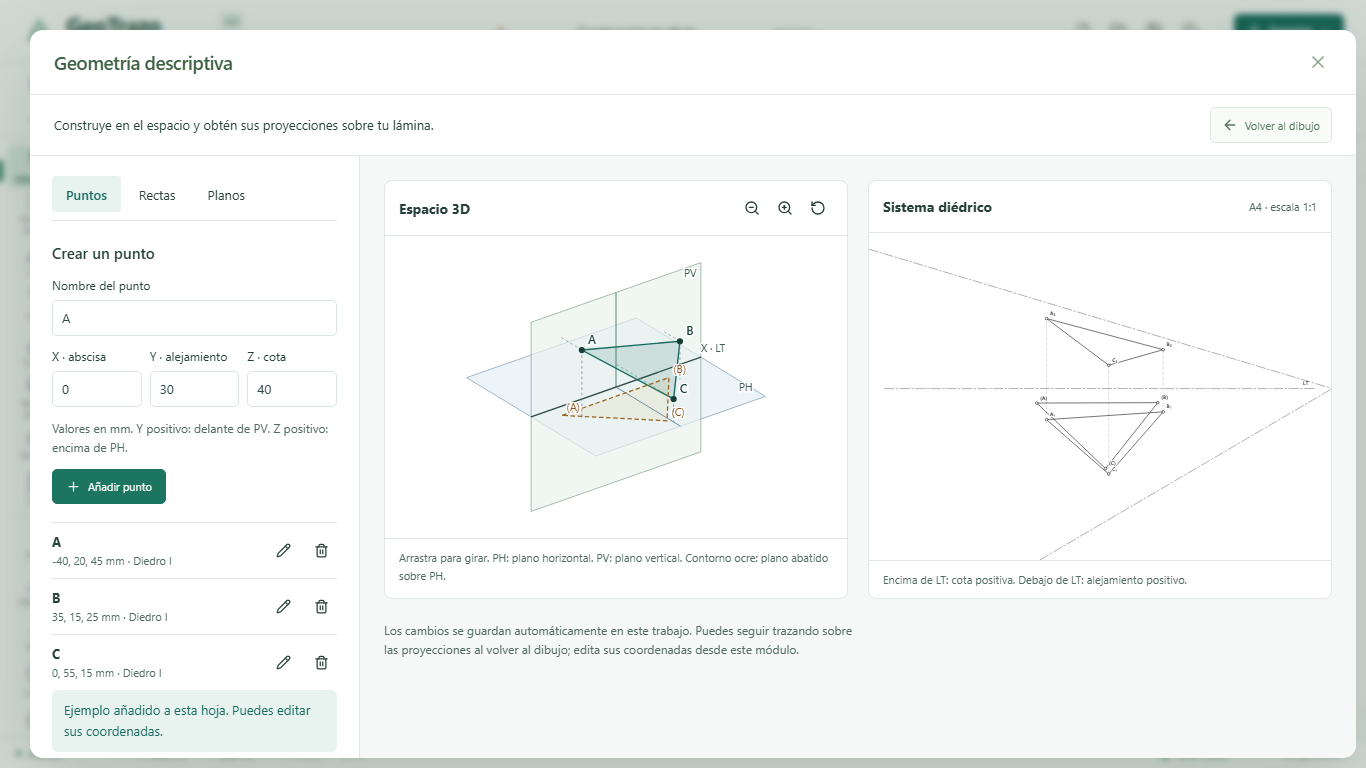
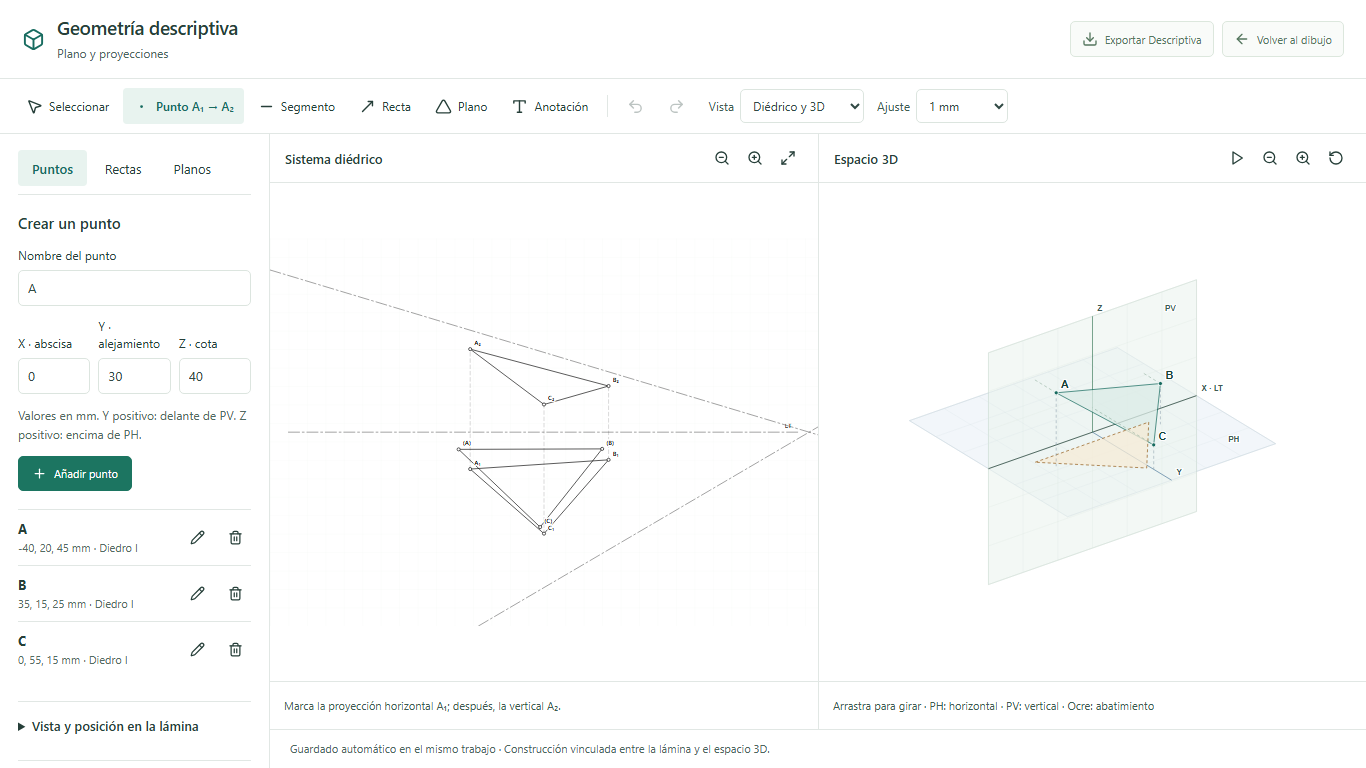
Publicar manual de la mesa Descriptiva y exportaciones 0.8.4

diff --git a/docs/manual.html b/docs/manual.html
@@ -42,7 +42,7 @@
       <article class="document-content">
         <h1>Tu mesa de dibujo,<br />paso a paso.</h1>
         <p>
-          Guía de GeoTrazo 0.8, con las herramientas del paquete 0.8.3. Autor:
+          Guía de GeoTrazo 0.8, con las herramientas del paquete 0.8.4. Autor:
           <strong>Fran David Caton Alania</strong>.
         </p>
         <p>
@@ -256,6 +256,39 @@
           Si deseas borrar un punto 3D, el módulo explica que también se
           eliminarán las rectas y planos que lo usan. Si otros trazos manuales
           dependen de sus proyecciones, debes resolver primero esas referencias.
+        </p>
+        <h2 id="mesa-descriptiva">Construir en la mesa de Descriptiva</h2>
+        <p>
+          <strong>Descriptiva</strong> abre una mesa propia de fondo blanco, con
+          herramientas y vistas vinculadas. En <strong>Punto A₁ → A₂</strong>,
+          marca la proyección horizontal y después la vertical: la abscisa se
+          alinea automáticamente. El ajuste se elige en milímetros o libre.
+        </p>
+        <p>
+          <strong>Segmento</strong> y <strong>Recta</strong> unen dos puntos del
+          modelo; <strong>Plano</strong> usa tres no alineados. Con
+          <strong>Seleccionar</strong>
+          puedes arrastrar una proyección y actualizar el punto completo.
+          <strong>Anotación</strong> coloca texto en la lámina. Esc y Ctrl+Z
+          cancelan pasos pendientes; las coordenadas y los abatimientos siguen
+          disponibles en el inspector.
+        </p>
+        <p>
+          <strong>Exportar Descriptiva</strong> guarda PDF vectorial con una
+          segunda página 3D opcional, PNG o SVG de la lámina o vista espacial, y
+          HTML interactivo. El HTML reúne el modelo giratorio y sus proyecciones
+          en un único archivo que funciona sin conexión. Incluye pausa,
+          velocidad, zoom, arrastre y teclado; con movimiento reducido empieza
+          pausado.
+        </p>
+        <h2 id="pintura">Pintar y rayar regiones</h2>
+        <p>
+          El <strong>Balde de pintura</strong> ofrece 38 colores y un selector
+          personalizado. Elige color uniforme, rayas o rayas cruzadas, con
+          ángulo, separación y opacidad ajustables. Confirma
+          <strong>Pintar región</strong>; después puedes cambiar esos datos en
+          Propiedades. Las rayas se guardan y se exportan como geometría
+          vectorial en PDF y SVG.
         </p>
         <h2 id="poligonos">Dibujar polígonos</h2>
         <p>

diff --git a/docs/novedades.html b/docs/novedades.html
@@ -29,8 +29,9 @@
     </header>
     <main class="document-layout wrap" id="contenido">
       <nav class="document-nav" aria-label="Publicaciones">
-        <strong>Publicaciones</strong><a href="#v083">Paquete 0.8.3</a
-        ><a href="#v082">Paquete 0.8.2</a><a href="#v081">Paquete 0.8.1</a
+        <strong>Publicaciones</strong><a href="#v084">Paquete 0.8.4</a
+        ><a href="#v083">Paquete 0.8.3</a><a href="#v082">Paquete 0.8.2</a
+        ><a href="#v081">Paquete 0.8.1</a
         ><a
           href="https://github.com/fran56caton/geotrazo-actualizaciones/releases"
           >Archivos en GitHub</a
@@ -42,6 +43,32 @@
           GeoTrazo mantiene su identificación visible 0.8. Los números de
           paquete permiten distinguir las mejoras que recibe el actualizador.
         </p>
+        <section class="release-entry" id="v084">
+          <time datetime="2026-10-30">30 de octubre de 2026</time>
+          <h2>0.8.4 · Una mesa propia para Descriptiva</h2>
+          <ul>
+            <li>
+              Construcción por A₁ y A₂ alineados, segmentos, rectas y planos
+              mediante clics.
+            </li>
+            <li>
+              Vistas vinculadas, movimiento de proyecciones, anotaciones y giro
+              3D con pausa.
+            </li>
+            <li>
+              Exportación PDF vectorial, PNG, SVG y HTML 3D autónomo que
+              funciona sin internet.
+            </li>
+            <li>
+              Balde con 38 colores, rayas y rayas cruzadas; ángulo, separación y
+              opacidad ajustables.
+            </li>
+            <li>
+              Títulos de lámina completos y nuevos extremos de segmentos
+              ocultos, sin etiquetas.
+            </li>
+          </ul>
+        </section>
         <section class="release-entry" id="v083">
           <time datetime="2026-10-30">30 de octubre de 2026</time>
           <h2>0.8.3 · Polígonos y plantilla institucional</h2>

diff --git a/docs/index.html b/docs/index.html
@@ -70,7 +70,7 @@
           <a
             class="button primary download-button"
             data-download
-            href="https://github.com/fran56caton/geotrazo-actualizaciones/releases/download/v0.8.3/GeoTrazo-Instalar-0.8.3-Windows-x64.exe"
+            href="https://github.com/fran56caton/geotrazo-actualizaciones/releases/download/v0.8.4/GeoTrazo-Instalar-0.8.4-Windows-x64.exe"
             >Descargar GeoTrazo para Windows
             <svg
               viewBox="0 0 24 24"
@@ -82,7 +82,7 @@
               <path d="M12 3v12m-5-5 5 5 5-5M4 16v5h16v-5" /></svg
           ></a>
           <p class="download-meta">
-            Paquete <span data-version>0.8.3</span> ·
+            Paquete <span data-version>0.8.4</span> ·
             <a
               href="https://github.com/fran56caton/geotrazo-actualizaciones/releases/latest"
               >Archivos y firmas de la publicación</a
@@ -134,7 +134,7 @@
             Estos archivos contienen construcciones reales de GeoTrazo. Ábrelos
             con <strong>Abrir</strong> o <strong>Ctrl+O</strong> y cambia sus
             coordenadas desde <strong>Descriptiva</strong>. Requieren el paquete
-            0.8.3 o posterior.
+            0.8.4 o posterior.
           </p>
         </div>
         <article class="example-row">

diff --git a/README.md b/README.md
@@ -12,6 +12,8 @@ Desde el paquete 0.8.2, el módulo **Descriptiva** permite crear puntos, rectas 
 
 Desde el paquete 0.8.3, **Polígono** permite dibujar por vértices o construir polígonos regulares con radio fijo opcional. El rotulado toma automáticamente el número y el título del trabajo. Los apoyos nuevos de regla y escuadras quedan ocultos y sin etiquetas.
 
+Desde el paquete 0.8.4, **Descriptiva** tiene su propia mesa de construcción por A₁ y A₂ alineados, segmentos, rectas, planos y anotaciones. Exporta PDF, PNG, SVG y HTML 3D autónomo con giro y pausa. El balde incorpora 38 colores y rayados ajustables; los títulos de lámina se muestran completos y los nuevos extremos de segmentos quedan ocultos.
+
 ## Descargar
 
 Abre [la publicación más reciente](https://github.com/fran56caton/geotrazo-actualizaciones/releases/latest) y descarga **GeoTrazo-Instalar-…-Windows-x64.exe**. Incluye WebView2 para instalar sin conexión. La biblioteca de un usuario nuevo empieza vacía; puedes personalizar el alumno en el rotulado y el estudiante y título de la carátula. Se mantiene la plantilla original de UNHEVAL con su escudo.
